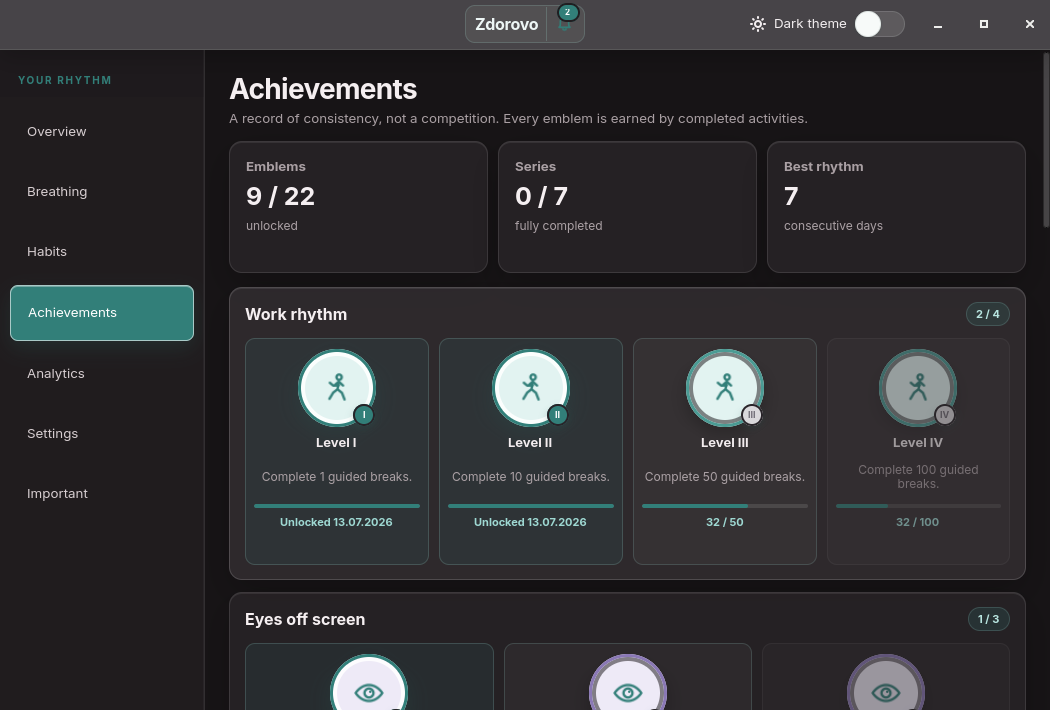
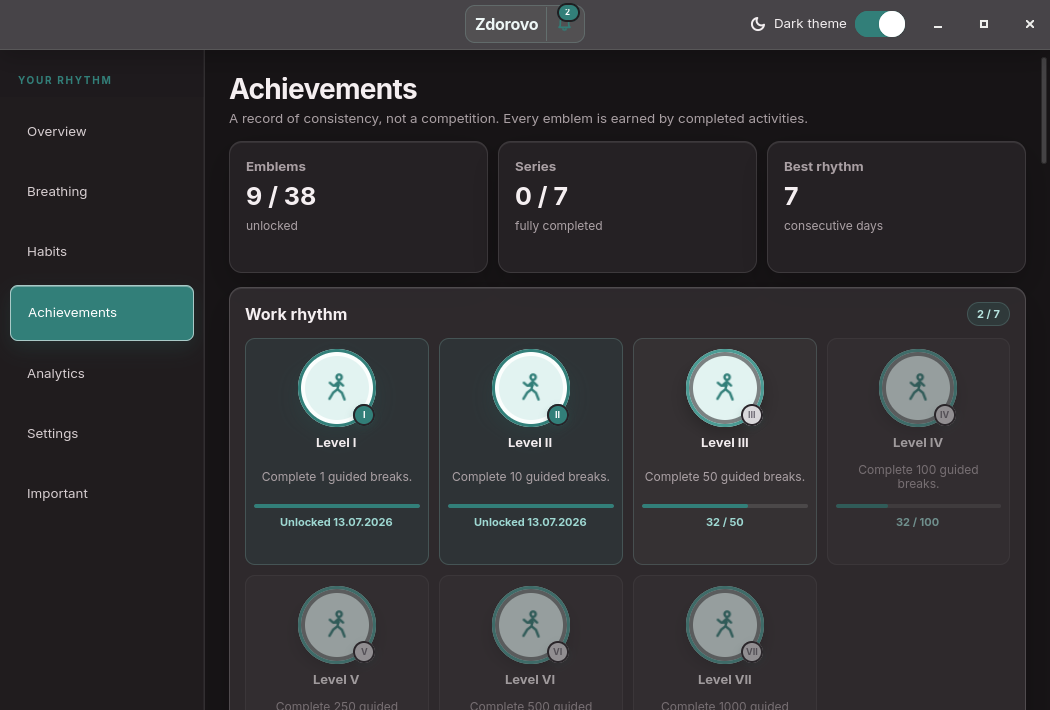
Resume media after completed breaks

diff --git a/tests/test_core.py b/tests/test_core.py
@@ -360,11 +360,16 @@ class CoreTests(unittest.TestCase):
         self.assertEqual(restored.latest_wellness()["back"], 5)
 
     def test_multilevel_achievements_unlock_once_and_restore(self):
-        self.assertGreaterEqual(len(MODULE.ACHIEVEMENTS), 20)
+        self.assertGreaterEqual(len(MODULE.ACHIEVEMENTS), 35)
         self.assertGreaterEqual(
             max(item["level"] for item in MODULE.ACHIEVEMENTS if item["series"] == "rhythm"),
-            4,
+            7,
         )
+        self.assertEqual(
+            max(item["target"] for item in MODULE.ACHIEVEMENTS if item["series"] == "rhythm"),
+            1000,
+        )
+        self.assertEqual(MODULE.achievement_level_mark(7), "VII")
         source = MODULE.UsageDatabase(Path(TMP.name) / "achievements.sqlite3")
         for offset in range(10):
             source.log_reminder("eyes", "done", now=MODULE.time.time() + offset, duration_seconds=20)
@@ -436,22 +441,33 @@ class CoreTests(unittest.TestCase):
         self.assertIn("daily_app", payload["analytics"])
         self.assertIn("achievement_unlocks", payload["analytics"])
 
-    def test_snooze_resumes_only_players_paused_by_the_app(self):
-        config = MODULE.Config()
-        db = MODULE.UsageDatabase(Path(TMP.name) / "resume_media.sqlite3")
-        shown = []
-        resumed = []
-        scheduler = MODULE.Scheduler(config, db, shown.append)
+    def test_reminder_actions_resume_only_players_paused_by_the_app(self):
         original_pause = MODULE.pause_media_players
         original_resume = MODULE.resume_media_players
         MODULE.pause_media_players = lambda: ["org.mpris.MediaPlayer2.test"]
-        MODULE.resume_media_players = lambda players: resumed.extend(players) or len(players)
         try:
-            scheduler.trigger("eyes")
-            MODULE.atomic_json(MODULE.RESPONSE_FILE, {"id": shown[0]["id"], "action": "snooze"})
-            scheduler._consume_response()
-            scheduler.resume_paused_media()
-            self.assertEqual(resumed, ["org.mpris.MediaPlayer2.test"])
+            for action in ("done", "snooze"):
+                with self.subTest(action=action):
+                    config = MODULE.Config()
+                    db = MODULE.UsageDatabase(Path(TMP.name) / f"resume_media_{action}.sqlite3")
+                    shown = []
+                    resumed = []
+                    scheduler = MODULE.Scheduler(config, db, shown.append)
+
+                    def record_resume(players, target=resumed):
+                        target.extend(players)
+                        return len(players)
+
+                    MODULE.resume_media_players = record_resume
+                    scheduler.trigger("eyes")
+                    MODULE.atomic_json(
+                        MODULE.RESPONSE_FILE,
+                        {"id": shown[0]["id"], "action": action},
+                    )
+                    scheduler._consume_response()
+                    scheduler.resume_paused_media()
+                    self.assertEqual(resumed, ["org.mpris.MediaPlayer2.test"])
+                    db.close()
         finally:
             MODULE.pause_media_players = original_pause
             MODULE.resume_media_players = original_resume

diff --git a/healthbreak.py b/healthbreak.py
@@ -37,7 +37,7 @@ from gi.repository import Adw, Atspi, Gdk, Gio, GioUnix, GLib, Graphene, Gtk  # 
 APP_ID = "io.github.jabka.Zdorovo"
 APP_ICON_NAME = f"{APP_ID}-mint-v2"
 APP_NAME = "Здорово"
-APP_VERSION = "0.1.2"
+APP_VERSION = "0.1.3"
 ROOT = Path(__file__).resolve().parent
 ASSET_ROOT = ROOT / "assets"
 if not ASSET_ROOT.is_dir():
@@ -152,7 +152,7 @@ ACHIEVEMENTS: tuple[dict[str, Any], ...] = (
     *_achievement_series(
         "rhythm",
         "breaks",
-        (1, 10, 50, 100),
+        (1, 10, 50, 100, 250, 500, 1000),
         "general",
         "sea",
         "Work rhythm",
@@ -163,7 +163,7 @@ ACHIEVEMENTS: tuple[dict[str, Any], ...] = (
     *_achievement_series(
         "eyes",
         "eye_breaks",
-        (5, 25, 100),
+        (5, 25, 100, 250, 500),
         "eyes",
         "violet",
         "Eyes off screen",
@@ -174,7 +174,7 @@ ACHIEVEMENTS: tuple[dict[str, Any], ...] = (
     *_achievement_series(
         "movement",
         "movement_breaks",
-        (5, 25, 100),
+        (5, 25, 100, 250, 500),
         "general",
         "green",
         "Keep moving",
@@ -185,7 +185,7 @@ ACHIEVEMENTS: tuple[dict[str, Any], ...] = (
     *_achievement_series(
         "breathing",
         "breathing_sessions",
-        (1, 10, 30),
+        (1, 10, 30, 75, 150, 300),
         "breathing",
         "sky",
         "Calm rhythm",
@@ -196,7 +196,7 @@ ACHIEVEMENTS: tuple[dict[str, Any], ...] = (
     *_achievement_series(
         "habits",
         "habit_marks",
-        (7, 30, 100),
+        (7, 30, 100, 250, 500, 1000),
         "water",
         "amber",
         "Healthy habits",
@@ -218,7 +218,7 @@ ACHIEVEMENTS: tuple[dict[str, Any], ...] = (
     *_achievement_series(
         "streak",
         "break_streak",
-        (3, 7, 30),
+        (3, 7, 30, 60, 100, 365),
         "back",
         "deep",
         "Steady rhythm",
@@ -1930,7 +1930,7 @@ class Scheduler:
             quiet_until = time.time() + snooze_seconds
             self.state["quiet_until"] = quiet_until
             self.state["snooze_until"][kind] = quiet_until
-            self.resume_paused_media()
+        self.resume_paused_media()
         self._active_kind = None
         self.state["active_id"] = None
         self._save_state()
@@ -2169,6 +2169,13 @@ def status_banner(title: str) -> Gtk.Revealer:
     return revealer
 
 
+ACHIEVEMENT_LEVEL_MARKS = ("I", "II", "III", "IV", "V", "VI", "VII", "VIII", "IX", "X")
+
+
+def achievement_level_mark(level: int) -> str:
+    return ACHIEVEMENT_LEVEL_MARKS[level - 1] if 1 <= level <= len(ACHIEVEMENT_LEVEL_MARKS) else str(level)
+
+
 def achievement_emblem(icon: str, tone: str, level: int, unlocked: bool) -> Gtk.Widget:
     emblem = Gtk.Overlay(
         halign=Gtk.Align.CENTER,
@@ -2192,7 +2199,7 @@ def achievement_emblem(icon: str, tone: str, level: int, unlocked: bool) -> Gtk.
     )
     seal.set_size_request(23, 23)
     seal_icon = Gtk.Label(
-        label=("I", "II", "III", "IV")[max(1, min(4, int(level))) - 1],
+        label=achievement_level_mark(int(level)),
         css_classes=["achievement-level-mark"],
     )
     seal.set_center_widget(seal_icon)
@@ -4280,7 +4287,6 @@ class MainWindow(Adw.ApplicationWindow):
         self.achievement_unlocked_value.set_text(f"{unlocked_total} / {len(achievements)}")
         self.achievement_series_value.set_text(f"{completed_series} / {len(grouped)}")
         self.achievement_streak_value.set_text(str(metrics["break_streak"]))
-        roman = ("I", "II", "III", "IV")
         for series in grouped.values():
             first = series[0]
             unlocked_in_series = sum(item["unlocked_at"] is not None for item in series)
@@ -4305,9 +4311,9 @@ class MainWindow(Adw.ApplicationWindow):
                 )
             )
             series_card.append(header)
-            levels = Gtk.Grid(column_spacing=10, column_homogeneous=True)
+            levels = Gtk.Grid(column_spacing=10, row_spacing=10, column_homogeneous=True)
             next_locked_seen = False
-            for column, achievement in enumerate(series):
+            for index, achievement in enumerate(series):
                 unlocked_at = achievement["unlocked_at"]
                 is_unlocked = unlocked_at is not None
                 is_next = not is_unlocked and not next_locked_seen
@@ -4333,9 +4339,9 @@ class MainWindow(Adw.ApplicationWindow):
                 level.append(
                     Gtk.Label(
                         label=(
-                            f"Level {roman[int(achievement['level']) - 1]}"
+                            f"Level {achievement_level_mark(int(achievement['level']))}"
                             if self.language == "en"
-                            else f"Уровень {roman[int(achievement['level']) - 1]}"
+                            else f"Уровень {achievement_level_mark(int(achievement['level']))}"
                         ),
                         css_classes=["achievement-level-title"],
                     )
@@ -4365,7 +4371,7 @@ class MainWindow(Adw.ApplicationWindow):
                 else:
                     status = f"{progress} / {int(achievement['target'])}"
                 level.append(Gtk.Label(label=status, css_classes=["achievement-status"]))
-                levels.attach(level, column, 0, 1, 1)
+                levels.attach(level, index % 4, index // 4, 1, 1)
             series_card.append(levels)
             self.achievement_series_box.append(series_card)
 
@@ -6037,7 +6043,7 @@ class FallbackOverlay(Gtk.ApplicationWindow):
 
     def respond(self, action: str) -> None:
         guided_seconds = self._elapsed_now() if action == "done" and self.started else 0.0
-        if action == "snooze":
+        if action in ("done", "snooze"):
             self.get_application().scheduler.resume_paused_media()
         atomic_json(
             RESPONSE_FILE,
@@ -6306,7 +6312,7 @@ class ZdorovoApplication(Adw.Application):
         language = str(self.config.data.get("language", "en"))
         if len(unlocked) == 1:
             achievement = unlocked[0]
-            level = ("I", "II", "III", "IV")[int(achievement["level"]) - 1]
+            level = achievement_level_mark(int(achievement["level"]))
             title = "Achievement unlocked" if language == "en" else "Новое достижение"
             body = f"{achievement[f'title_{language}']} · {level}"
         else:

diff --git a/docs/RELEASE_0.1.3.md b/docs/RELEASE_0.1.3.md
@@ -1,0 +1,18 @@
+# Zdorovo 0.1.3
+
+This release improves media recovery and extends long-term achievement progress.
+
+Highlights:
+
+- resumes only the media players Zdorovo paused, after either Done or Remind later;
+- expands the collection from 22 to 38 achievement emblems;
+- adds levels V–VII and goals up to 1000 completed activities;
+- adds long-term goals for eye rest, movement, breathing, habits and streaks;
+- wraps larger achievement series into readable four-column rows;
+- preserves existing unlock IDs, exports and imported progress.
+
+Install or upgrade with:
+
+```bash
+sudo apt install ./zdorovo_0.1.3_all.deb
+```

diff --git a/CHANGELOG.md b/CHANGELOG.md
@@ -1,5 +1,12 @@
 # Changelog
 
+## 0.1.3 — 2026-07-13
+
+- media paused by Zdorovo resumes after both completing and postponing a reminder;
+- 38 achievement emblems with long-term goals up to level VII;
+- higher targets up to 1000 completed breaks or habit marks and a 365-day streak;
+- readable four-column achievement layout with preserved existing progress.
+
 ## 0.1.2 — 2026-07-13
 
 - light, dark and automatic themes with configurable switch times;

diff --git a/README.md b/README.md
@@ -105,7 +105,7 @@ Download the current package from
 [GitHub Releases](https://github.com/sichiiii/zdorovo/releases/latest), then run:
 
 ```bash
-sudo apt install ./zdorovo_0.1.2_all.deb
+sudo apt install ./zdorovo_0.1.3_all.deb
 ```
 
 Open **Zdorovo** from the application list. Its user services start with the